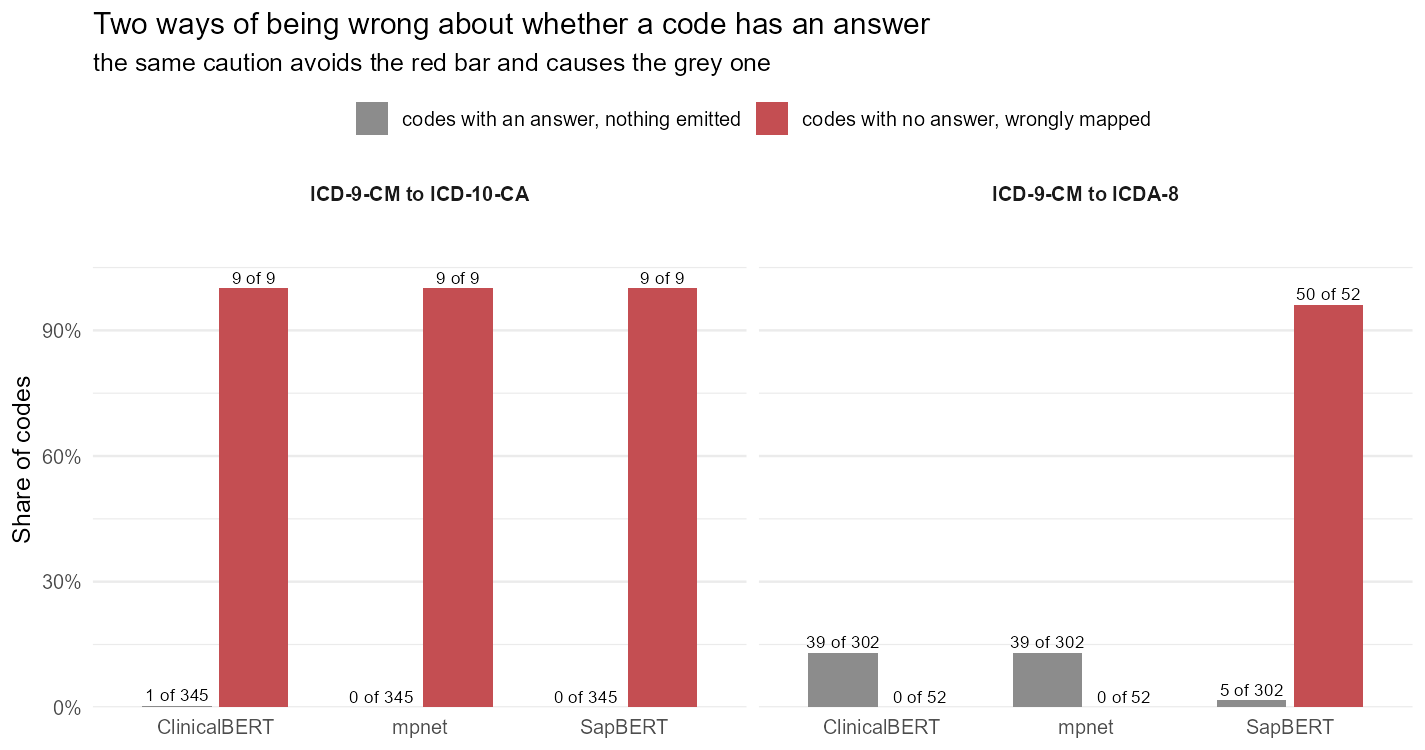
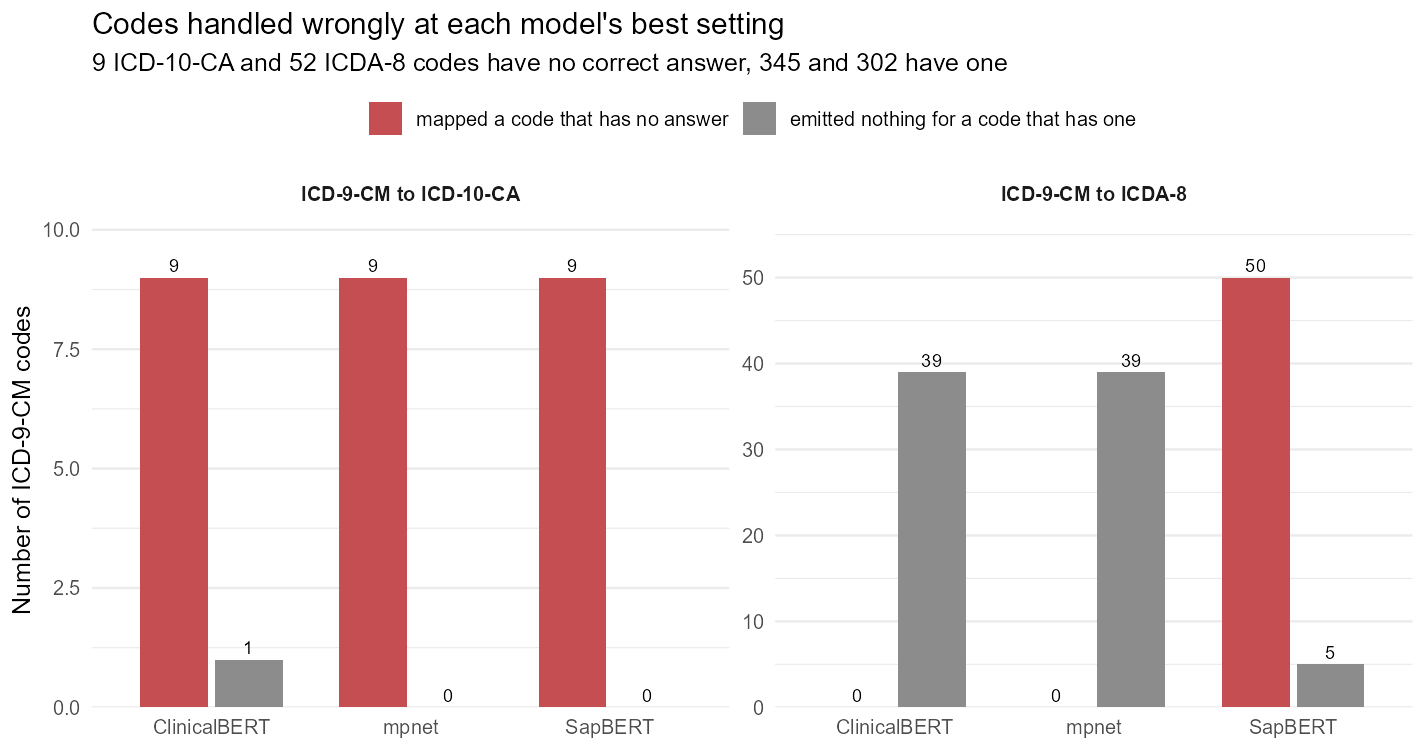
unmatched code chart as counts, two groups have different sizes

diff --git a/report.md b/report.md
@@ -121,19 +121,19 @@ and wrong on 39 others.
 
 ![unmatched code handling](results/plot_unmatched_code_handling.png)
 
-**Figure 1. Two ways of being wrong about whether a code has an answer.** Red is
-codes with no correct answer that the pipeline mapped anyway. Grey is codes that
-do have an answer and got nothing.
+**Figure 1. Codes handled wrongly at each model's best setting.** Red counts
+codes with no correct answer that were mapped anyway. Grey counts codes that do
+have an answer and were given nothing. Counts rather than percentages, because
+the two groups are different sizes.
 
-The ICDA-8 panel is the whole argument in one picture. ClinicalBERT and
-all-mpnet-base-v2 have no red bar and a grey bar of 39. SapBERT is the reverse,
-50 red and 5 grey. One rule fires only on co-occurrence evidence and one fires
-on label similarity, and that single choice produces both columns. Neither model
-is deciding which codes deserve an answer.
+On ICDA-8 the two bars trade places. ClinicalBERT and all-mpnet-base-v2 map none
+of the 52 and miss 39 of the 302. SapBERT maps 50 of the 52 and misses 5. The
+mapping rule accounts for both bars in each case: one fires only when the codes
+co-occur in records, the other on label similarity alone.
 
-On ICD-10-CA every model maps all 9. Nine codes cannot separate three models,
-and the grey bars there are 0 or 1 because the similarity signal reaches almost
-every code.
+On ICD-10-CA every model maps all 9 and misses at most 1, so the panel separates
+nothing. It is included because leaving it out would show only the crosswalk
+where the effect appears.
 
 ---
 
